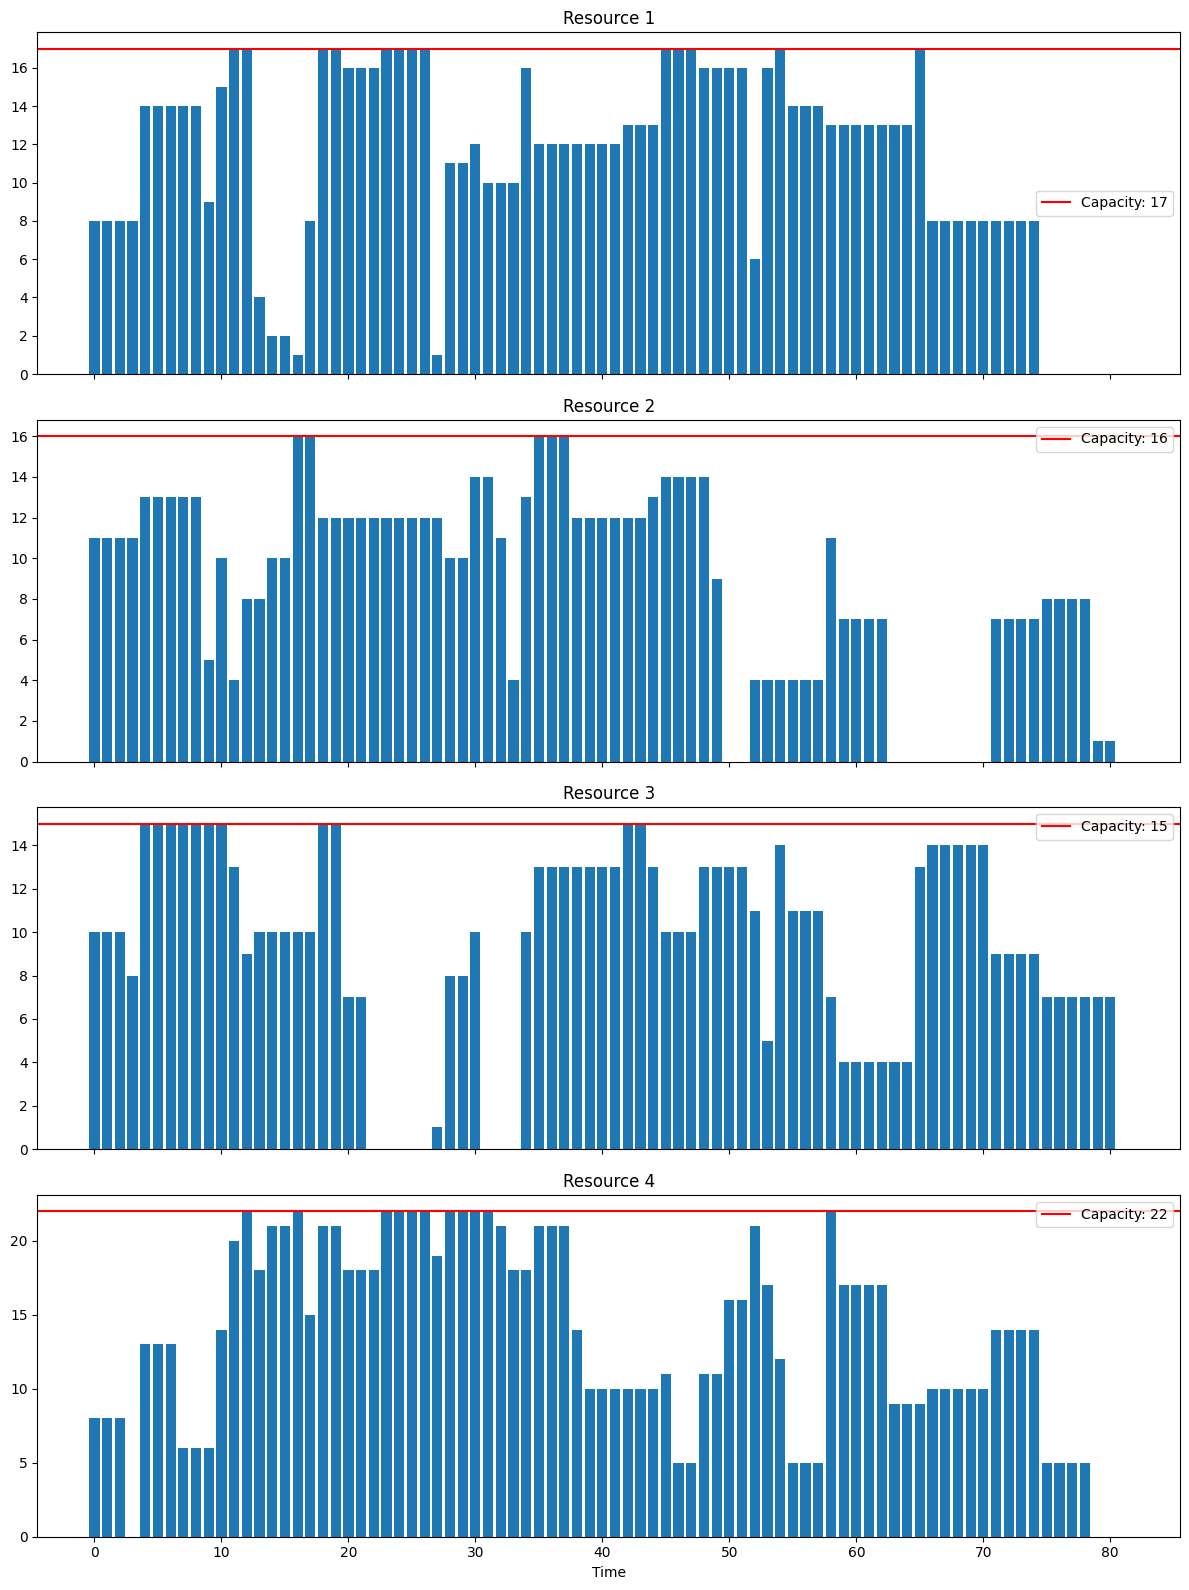
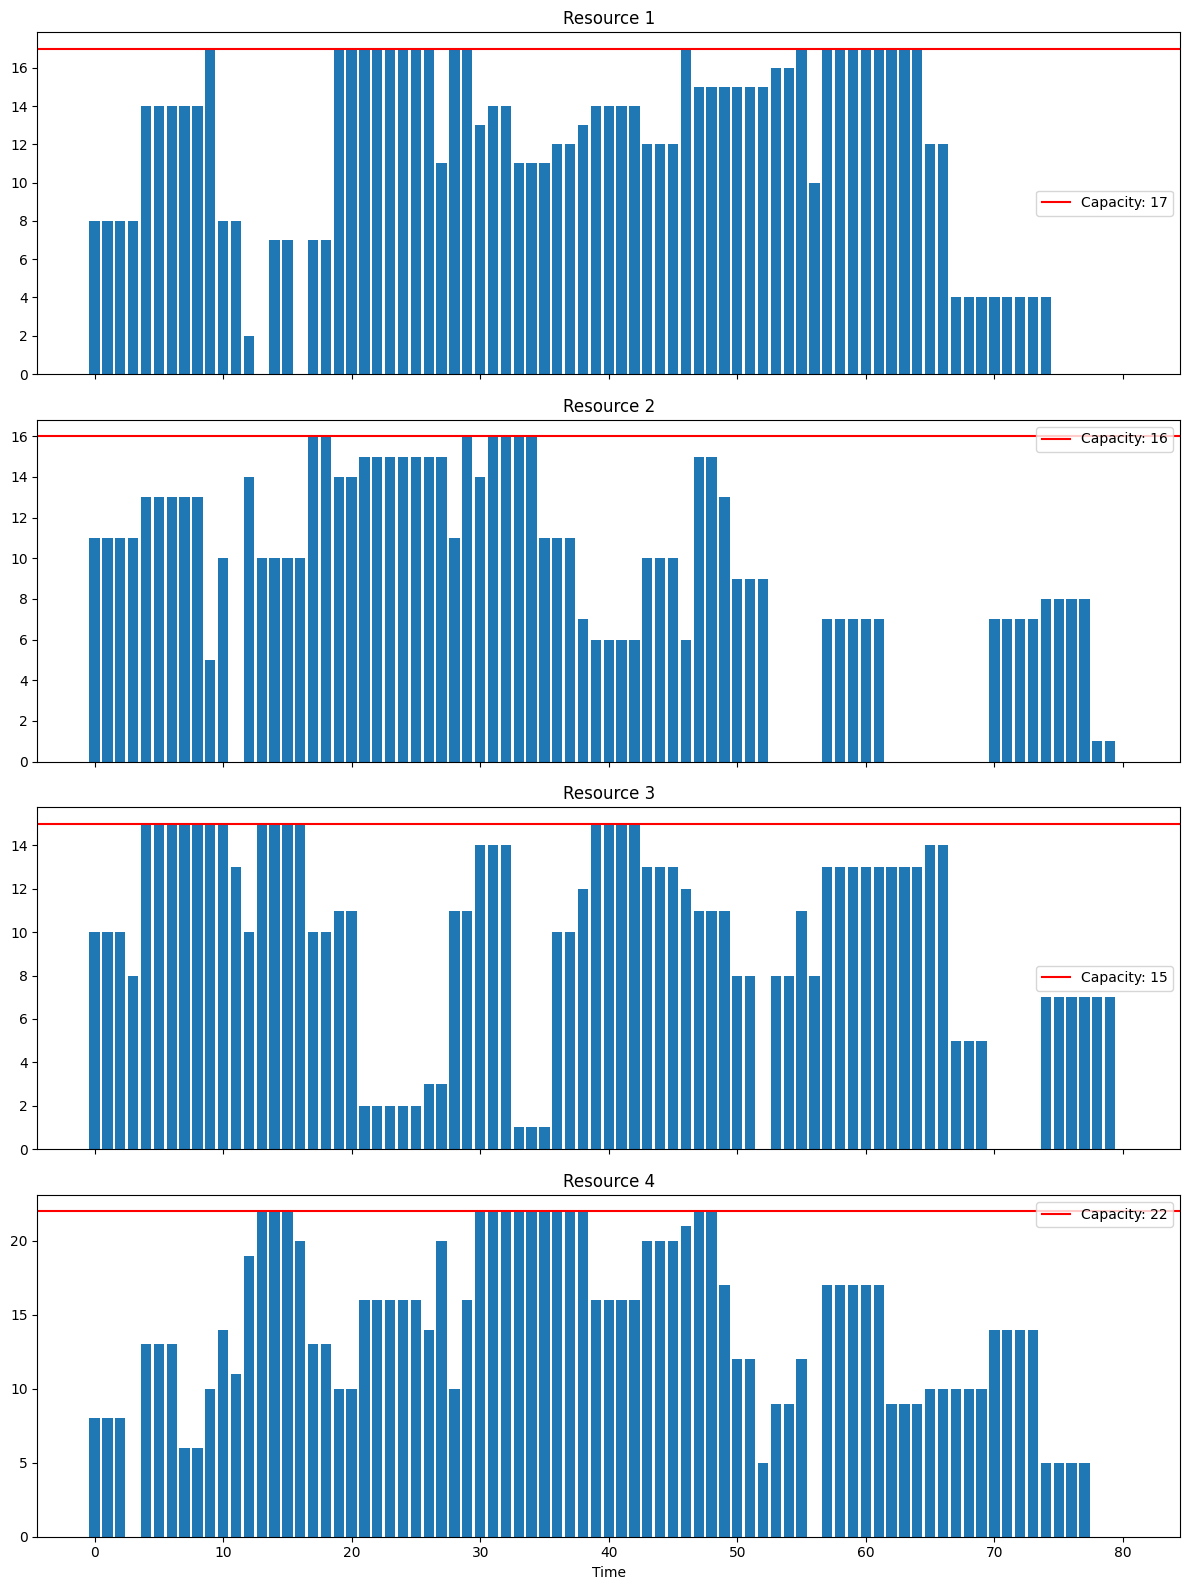
Results for classic VND with optimisation pass

diff --git a/Devoir3/solver_VND.py b/Devoir3/solver_VND.py
@@ -11,7 +11,7 @@ from utils.utils import generate_random_valid_solution, find_ressources_used_at_
 
 def solve(rcpsp: RCPSP):
 
-    time_limit = 2 * 60
+    time_limit = 20 * 60
 
     # return VND(rcpsp, time_limit, build_neighbor_priority_with_stochasticity)
     return VND(rcpsp, time_limit, build_neighbor_priority)
